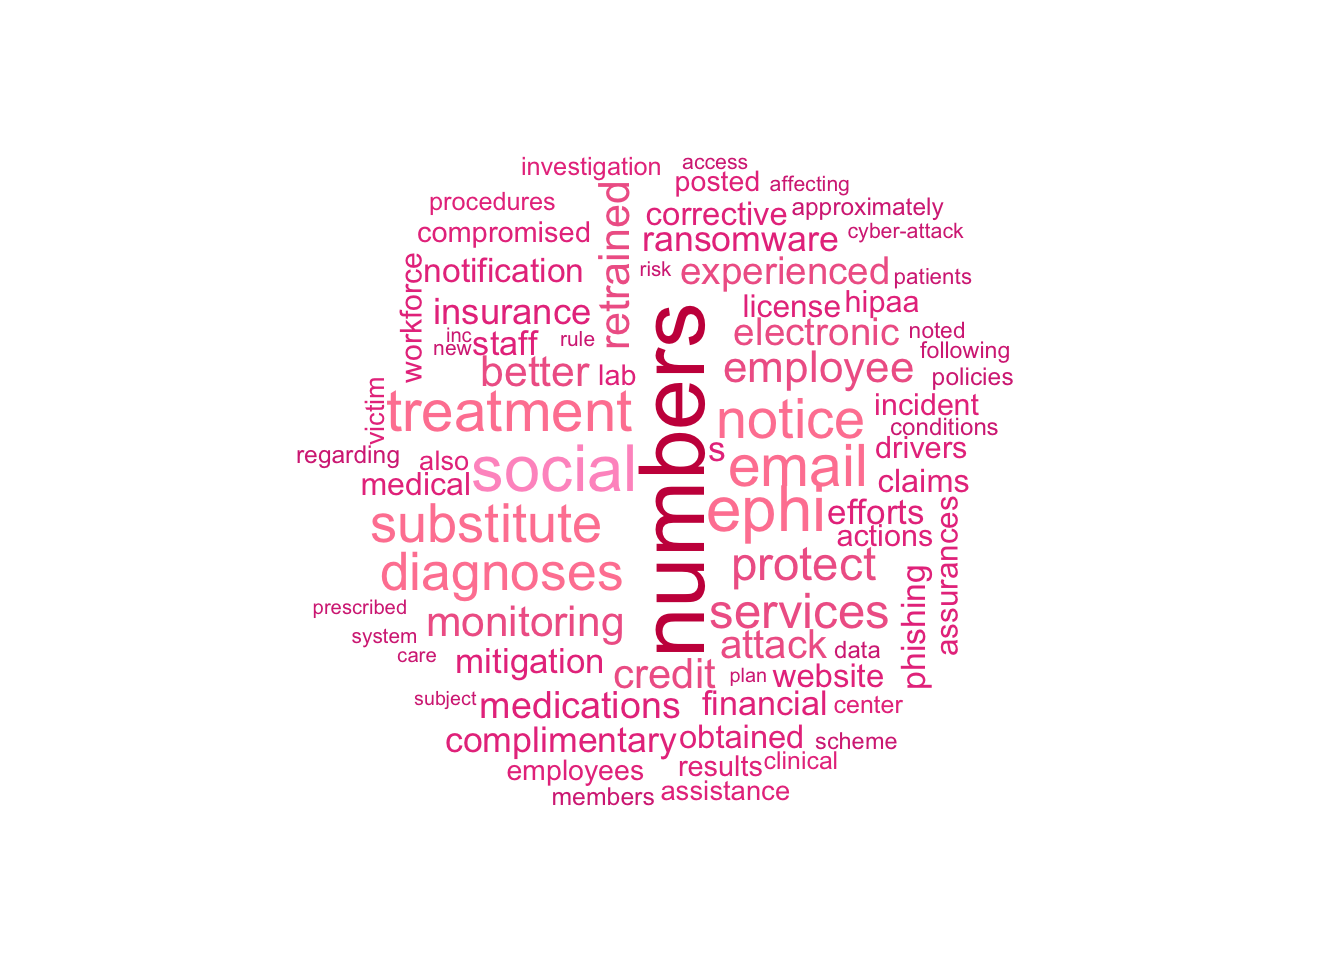
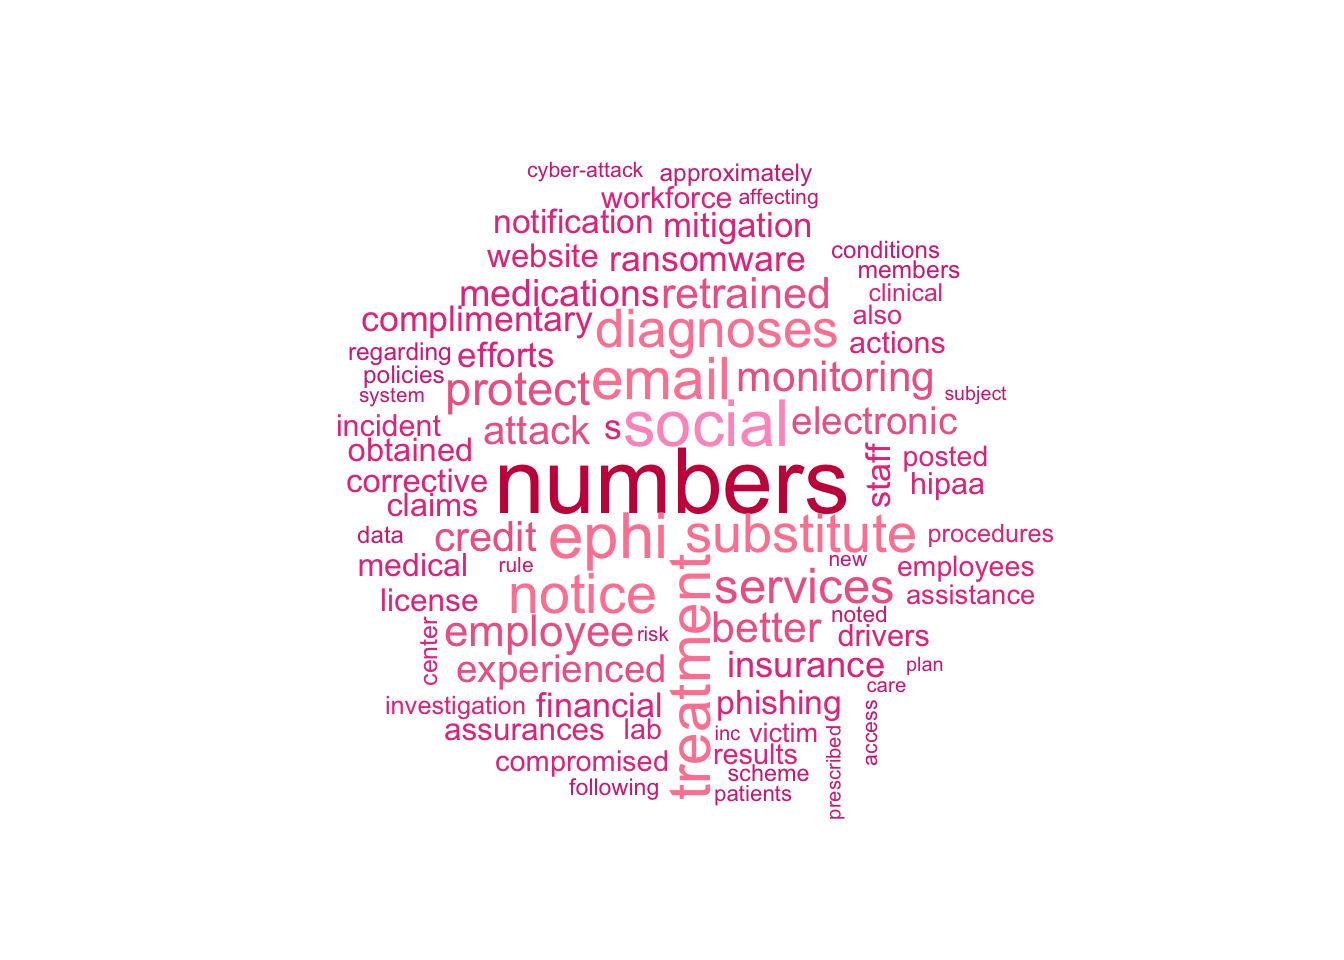
Add files via upload

Changed region(s): [[0.2188, 0.1562, 0.7812, 0.8438]]

diff --git a/site_libs/quarto-html/quarto-syntax-highlighting-dark-4d9afe2b8d18ee9fa5d0d57b5ed4214d.css b/site_libs/quarto-html/quarto-syntax-highlighting-dark-4d9afe2b8d18ee9fa5d0d57b5ed4214d.css
@@ -1,0 +1,219 @@
+/* quarto syntax highlight colors */
+:root {
+  --quarto-hl-al-color: #f07178;
+  --quarto-hl-an-color: #d4d0ab;
+  --quarto-hl-at-color: #00e0e0;
+  --quarto-hl-bn-color: #d4d0ab;
+  --quarto-hl-bu-color: #abe338;
+  --quarto-hl-ch-color: #abe338;
+  --quarto-hl-co-color: #f8f8f2;
+  --quarto-hl-cv-color: #ffd700;
+  --quarto-hl-cn-color: #ffd700;
+  --quarto-hl-cf-color: #ffa07a;
+  --quarto-hl-dt-color: #ffa07a;
+  --quarto-hl-dv-color: #d4d0ab;
+  --quarto-hl-do-color: #f8f8f2;
+  --quarto-hl-er-color: #f07178;
+  --quarto-hl-ex-color: #00e0e0;
+  --quarto-hl-fl-color: #d4d0ab;
+  --quarto-hl-fu-color: #ffa07a;
+  --quarto-hl-im-color: #abe338;
+  --quarto-hl-in-color: #d4d0ab;
+  --quarto-hl-kw-color: #ffa07a;
+  --quarto-hl-op-color: #ffa07a;
+  --quarto-hl-ot-color: #00e0e0;
+  --quarto-hl-pp-color: #dcc6e0;
+  --quarto-hl-re-color: #00e0e0;
+  --quarto-hl-sc-color: #abe338;
+  --quarto-hl-ss-color: #abe338;
+  --quarto-hl-st-color: #abe338;
+  --quarto-hl-va-color: #00e0e0;
+  --quarto-hl-vs-color: #abe338;
+  --quarto-hl-wa-color: #dcc6e0;
+}
+
+/* other quarto variables */
+:root {
+  --quarto-font-monospace: SFMono-Regular, Menlo, Monaco, Consolas, "Liberation Mono", "Courier New", monospace;
+}
+
+/* syntax highlight based on Pandoc's rules */
+pre > code.sourceCode > span {
+  color: #f8f8f2;
+}
+
+code.sourceCode > span {
+  color: #f8f8f2;
+}
+
+div.sourceCode,
+div.sourceCode pre.sourceCode {
+  color: #f8f8f2;
+}
+
+/* Normal */
+code span {
+  color: #f8f8f2;
+}
+
+/* Alert */
+code span.al {
+  color: #f07178;
+}
+
+/* Annotation */
+code span.an {
+  color: #d4d0ab;
+}
+
+/* Attribute */
+code span.at {
+  color: #00e0e0;
+}
+
+/* BaseN */
+code span.bn {
+  color: #d4d0ab;
+}
+
+/* BuiltIn */
+code span.bu {
+  color: #abe338;
+}
+
+/* ControlFlow */
+code span.cf {
+  font-weight: bold;
+  color: #ffa07a;
+}
+
+/* Char */
+code span.ch {
+  color: #abe338;
+}
+
+/* Constant */
+code span.cn {
+  color: #ffd700;
+}
+
+/* Comment */
+code span.co {
+  font-style: italic;
+  color: #f8f8f2;
+}
+
+/* CommentVar */
+code span.cv {
+  color: #ffd700;
+}
+
+/* Documentation */
+code span.do {
+  color: #f8f8f2;
+}
+
+/* DataType */
+code span.dt {
+  color: #ffa07a;
+}
+
+/* DecVal */
+code span.dv {
+  color: #d4d0ab;
+}
+
+/* Error */
+code span.er {
+  color: #f07178;
+  text-decoration: underline;
+}
+
+/* Extension */
+code span.ex {
+  font-weight: bold;
+  color: #00e0e0;
+}
+
+/* Float */
+code span.fl {
+  color: #d4d0ab;
+}
+
+/* Function */
+code span.fu {
+  color: #ffa07a;
+}
+
+/* Import */
+code span.im {
+  color: #abe338;
+}
+
+/* Information */
+code span.in {
+  color: #d4d0ab;
+}
+
+/* Keyword */
+code span.kw {
+  font-weight: bold;
+  color: #ffa07a;
+}
+
+/* Operator */
+code span.op {
+  color: #ffa07a;
+}
+
+/* Other */
+code span.ot {
+  color: #00e0e0;
+}
+
+/* Preprocessor */
+code span.pp {
+  color: #dcc6e0;
+}
+
+/* RegionMarker */
+code span.re {
+  background-color: #f8f8f2;
+  color: #00e0e0;
+}
+
+/* SpecialChar */
+code span.sc {
+  color: #abe338;
+}
+
+/* SpecialString */
+code span.ss {
+  color: #abe338;
+}
+
+/* String */
+code span.st {
+  color: #abe338;
+}
+
+/* Variable */
+code span.va {
+  color: #00e0e0;
+}
+
+/* VerbatimString */
+code span.vs {
+  color: #abe338;
+}
+
+/* Warning */
+code span.wa {
+  color: #dcc6e0;
+}
+
+.prevent-inlining {
+  content: "</";
+}
+
+/*# sourceMappingURL=86edf53ecdff796acf02dbceed379426.css.map */

diff --git a/lab1.html b/lab1.html
@@ -331,7 +331,7 @@ pre > code.sourceCode > span > a:first-child::before { text-decoration: underlin
 <span id="cb27-4"><a href="#cb27-4" aria-hidden="true" tabindex="-1"></a></span>
 <span id="cb27-5"><a href="#cb27-5" aria-hidden="true" tabindex="-1"></a><span class="fu">cor</span>(x,y) <span class="co"># Correlation of x and y</span></span></code></pre></div><button title="Copy to Clipboard" class="code-copy-button"><i class="bi"></i></button></div>
 <div class="cell-output cell-output-stdout">
-<pre><code>[1] 0.9928271</code></pre>
+<pre><code>[1] 0.9949117</code></pre>
 </div>
 <div class="code-copy-outer-scaffold"><div class="sourceCode cell-code" id="cb29"><pre class="sourceCode r code-with-copy"><code class="sourceCode r"><span id="cb29-1"><a href="#cb29-1" aria-hidden="true" tabindex="-1"></a><span class="fu">set.seed</span>(<span class="dv">1303</span>) <span class="co"># Set the seed for Random Number Generator (RNG) to generate values that are reproducible.</span></span>
 <span id="cb29-2"><a href="#cb29-2" aria-hidden="true" tabindex="-1"></a><span class="fu">rnorm</span>(<span class="dv">50</span>)</span></code></pre></div><button title="Copy to Clipboard" class="code-copy-button"><i class="bi"></i></button></div>

diff --git a/lab2.html b/lab2.html
@@ -499,7 +499,7 @@ pre > code.sourceCode > span > a:first-child::before { text-decoration: underlin
 <div class="cell-output cell-output-stdout">
 <pre><code>
 The downloaded binary packages are in
-    /var/folders/j2/fnf5s_0x3rv7xfjztkrrrgp80000gn/T//Rtmpisfzil/downloaded_packages</code></pre>
+    /var/folders/j2/fnf5s_0x3rv7xfjztkrrrgp80000gn/T//RtmpjTUmZV/downloaded_packages</code></pre>
 </div>
 <div class="code-copy-outer-scaffold"><div class="sourceCode cell-code" id="cb49"><pre class="sourceCode r code-with-copy"><code class="sourceCode r"><span id="cb49-1"><a href="#cb49-1" aria-hidden="true" tabindex="-1"></a><span class="fu">lapply</span>(ptbu, require, <span class="at">character.only =</span> <span class="cn">TRUE</span>)</span></code></pre></div><button title="Copy to Clipboard" class="code-copy-button"><i class="bi"></i></button></div>
 <div class="cell-output cell-output-stderr">

diff --git a/research.html b/research.html
@@ -1222,7 +1222,7 @@ This makes topic prevalence easier to interpret than simply averaging topic prob
 <span id="cb36-29"><a href="#cb36-29" aria-hidden="true" tabindex="-1"></a>  )</span></code></pre></div><button title="Copy to Clipboard" class="code-copy-button"><i class="bi"></i></button></div>
 <div class="cell-output-display">
 <div class="plotly html-widget html-fill-item" id="htmlwidget-1b4ff99564eb6e8884a5" style="width:100%;height:464px;"></div>
-<script type="application/json" data-for="htmlwidget-1b4ff99564eb6e8884a5">{"x":{"visdat":{"22ecd4af062":["function () ","plotlyVisDat"]},"cur_data":"22ecd4af062","attrs":{"22ecd4af062":{"x":{},"y":{},"mode":"markers+text","text":{},"textposition":"top center","hovertemplate":{},"marker":{"size":[90,73.274853801169598,77.456140350877178,64.59064327485379,35],"color":["#d63384","#e83e8c","#f06595","#ff85a1","#ff99c8"],"opacity":0.80000000000000004,"line":{"color":"#8a0f4d","width":1.5}},"alpha_stroke":1,"sizes":[10,100],"spans":[1,20],"type":"scatter"}},"layout":{"margin":{"b":40,"l":60,"t":25,"r":10},"title":{"text":"Interactive Intertopic Distance Map"},"xaxis":{"domain":[0,1],"automargin":true,"title":"Dimension 1"},"yaxis":{"domain":[0,1],"automargin":true,"title":"Dimension 2"},"hovermode":"closest","showlegend":false},"source":"A","config":{"modeBarButtonsToAdd":["hoverclosest","hovercompare"],"showSendToCloud":false},"data":[{"x":[0.31773000657140638,-0.27950720223184145,0.23823618791393766,0.090522343348555218,-0.36698133560205809],"y":[0.10791216818678713,-0.12277919258417323,0.16973014447007134,-0.36255957576446612,0.20769645569178111],"mode":"markers+text","text":["Types of Exposed PHI","Obtained and Assurances","Cyberattacks and Ransomware","Email, Mailing, and Delivery Errors","S and Investigation"],"textposition":["top center","top center","top center","top center","top center"],"hovertemplate":["<b>Types of Exposed PHI<\/b><br>Dominant-topic share: 26.8%<br>Top terms: numbers, services, credit, monitoring, diagnoses, social, complimentary, better<br>Meaning: This topic emphasizes the kinds of protected health information discussed in the breach descriptions.<extra><\/extra>","<b>Obtained and Assurances<\/b><br>Dominant-topic share: 21.6%<br>Top terms: obtained, assurances, employee, actions, notification, corrective, procedures, policies<br>Meaning: This topic is summarized using its most defining words because it does not clearly match one of the broader preset themes.<extra><\/extra>","<b>Cyberattacks and Ransomware<\/b><br>Dominant-topic share: 22.9%<br>Top terms: substitute, notice, numbers, ransomware, attack, experienced, website, posted<br>Meaning: This topic groups records centered on hacking, ransomware, and other network-based intrusions.<extra><\/extra>","<b>Email, Mailing, and Delivery Errors<\/b><br>Dominant-topic share: 18.9%<br>Top terms: email, ephi, phishing, electronic, retrained, employee, numbers, employees<br>Meaning: This topic captures incidents involving phishing, misdirected emails, mailed records, or delivery mistakes.<extra><\/extra>","<b>S and Investigation<\/b><br>Dominant-topic share: 9.7%<br>Top terms: s, investigation, access, risk, hipaa, notification, ephi, analysis<br>Meaning: This topic is summarized using its most defining words because it does not clearly match one of the broader preset themes.<extra><\/extra>"],"marker":{"color":["#d63384","#e83e8c","#f06595","#ff85a1","#ff99c8"],"size":[90,73.274853801169598,77.456140350877178,64.59064327485379,35],"opacity":0.80000000000000004,"line":{"color":"#8a0f4d","width":1.5}},"type":"scatter","error_y":{"color":"rgba(31,119,180,1)"},"error_x":{"color":"rgba(31,119,180,1)"},"line":{"color":"rgba(31,119,180,1)"},"xaxis":"x","yaxis":"y","frame":null}],"highlight":{"on":"plotly_click","persistent":false,"dynamic":false,"selectize":false,"opacityDim":0.20000000000000001,"selected":{"opacity":1},"debounce":0},"shinyEvents":["plotly_hover","plotly_click","plotly_selected","plotly_relayout","plotly_brushed","plotly_brushing","plotly_clickannotation","plotly_doubleclick","plotly_deselect","plotly_afterplot","plotly_sunburstclick"],"base_url":"https://plot.ly"},"evals":[],"jsHooks":[]}</script>
+<script type="application/json" data-for="htmlwidget-1b4ff99564eb6e8884a5">{"x":{"visdat":{"281125cecfe9":["function () ","plotlyVisDat"]},"cur_data":"281125cecfe9","attrs":{"281125cecfe9":{"x":{},"y":{},"mode":"markers+text","text":{},"textposition":"top center","hovertemplate":{},"marker":{"size":[90,73.274853801169598,77.456140350877178,64.59064327485379,35],"color":["#d63384","#e83e8c","#f06595","#ff85a1","#ff99c8"],"opacity":0.80000000000000004,"line":{"color":"#8a0f4d","width":1.5}},"alpha_stroke":1,"sizes":[10,100],"spans":[1,20],"type":"scatter"}},"layout":{"margin":{"b":40,"l":60,"t":25,"r":10},"title":{"text":"Interactive Intertopic Distance Map"},"xaxis":{"domain":[0,1],"automargin":true,"title":"Dimension 1"},"yaxis":{"domain":[0,1],"automargin":true,"title":"Dimension 2"},"hovermode":"closest","showlegend":false},"source":"A","config":{"modeBarButtonsToAdd":["hoverclosest","hovercompare"],"showSendToCloud":false},"data":[{"x":[0.31773000657140638,-0.27950720223184145,0.23823618791393766,0.090522343348555218,-0.36698133560205809],"y":[0.10791216818678713,-0.12277919258417323,0.16973014447007134,-0.36255957576446612,0.20769645569178111],"mode":"markers+text","text":["Types of Exposed PHI","Obtained and Assurances","Cyberattacks and Ransomware","Email, Mailing, and Delivery Errors","S and Investigation"],"textposition":["top center","top center","top center","top center","top center"],"hovertemplate":["<b>Types of Exposed PHI<\/b><br>Dominant-topic share: 26.8%<br>Top terms: numbers, services, credit, monitoring, diagnoses, social, complimentary, better<br>Meaning: This topic emphasizes the kinds of protected health information discussed in the breach descriptions.<extra><\/extra>","<b>Obtained and Assurances<\/b><br>Dominant-topic share: 21.6%<br>Top terms: obtained, assurances, employee, actions, notification, corrective, procedures, policies<br>Meaning: This topic is summarized using its most defining words because it does not clearly match one of the broader preset themes.<extra><\/extra>","<b>Cyberattacks and Ransomware<\/b><br>Dominant-topic share: 22.9%<br>Top terms: substitute, notice, numbers, ransomware, attack, experienced, website, posted<br>Meaning: This topic groups records centered on hacking, ransomware, and other network-based intrusions.<extra><\/extra>","<b>Email, Mailing, and Delivery Errors<\/b><br>Dominant-topic share: 18.9%<br>Top terms: email, ephi, phishing, electronic, retrained, employee, numbers, employees<br>Meaning: This topic captures incidents involving phishing, misdirected emails, mailed records, or delivery mistakes.<extra><\/extra>","<b>S and Investigation<\/b><br>Dominant-topic share: 9.7%<br>Top terms: s, investigation, access, risk, hipaa, notification, ephi, analysis<br>Meaning: This topic is summarized using its most defining words because it does not clearly match one of the broader preset themes.<extra><\/extra>"],"marker":{"color":["#d63384","#e83e8c","#f06595","#ff85a1","#ff99c8"],"size":[90,73.274853801169598,77.456140350877178,64.59064327485379,35],"opacity":0.80000000000000004,"line":{"color":"#8a0f4d","width":1.5}},"type":"scatter","error_y":{"color":"rgba(31,119,180,1)"},"error_x":{"color":"rgba(31,119,180,1)"},"line":{"color":"rgba(31,119,180,1)"},"xaxis":"x","yaxis":"y","frame":null}],"highlight":{"on":"plotly_click","persistent":false,"dynamic":false,"selectize":false,"opacityDim":0.20000000000000001,"selected":{"opacity":1},"debounce":0},"shinyEvents":["plotly_hover","plotly_click","plotly_selected","plotly_relayout","plotly_brushed","plotly_brushing","plotly_clickannotation","plotly_doubleclick","plotly_deselect","plotly_afterplot","plotly_sunburstclick"],"base_url":"https://plot.ly"},"evals":[],"jsHooks":[]}</script>
 </div>
 </div>
 </section>

diff --git a/site_libs/quarto-html/zenscroll-min.js b/site_libs/quarto-html/zenscroll-min.js
@@ -1,0 +1,1 @@
+!function(t,e){"function"==typeof define&&define.amd?define([],e()):"object"==typeof module&&module.exports?module.exports=e():function n(){document&&document.body?t.zenscroll=e():setTimeout(n,9)}()}(this,function(){"use strict";var t=function(t){return t&&"getComputedStyle"in window&&"smooth"===window.getComputedStyle(t)["scroll-behavior"]};if("undefined"==typeof window||!("document"in window))return{};var e=function(e,n,o){n=n||999,o||0===o||(o=9);var i,r=function(t){i=t},u=function(){clearTimeout(i),r(0)},c=function(t){return Math.max(0,e.getTopOf(t)-o)},a=function(o,i,c){if(u(),0===i||i&&i<0||t(e.body))e.toY(o),c&&c();else{var a=e.getY(),f=Math.max(0,o)-a,s=(new Date).getTime();i=i||Math.min(Math.abs(f),n),function t(){r(setTimeout(function(){var n=Math.min(1,((new Date).getTime()-s)/i),o=Math.max(0,Math.floor(a+f*(n<.5?2*n*n:n*(4-2*n)-1)));e.toY(o),n<1&&e.getHeight()+o<e.body.scrollHeight?t():(setTimeout(u,99),c&&c())},9))}()}},f=function(t,e,n){a(c(t),e,n)},s=function(t,n,i){var r=t.getBoundingClientRect().height,u=e.getTopOf(t)+r,s=e.getHeight(),l=e.getY(),d=l+s;c(t)<l||r+o>s?f(t,n,i):u+o>d?a(u-s+o,n,i):i&&i()},l=function(t,n,o,i){a(Math.max(0,e.getTopOf(t)-e.getHeight()/2+(o||t.getBoundingClientRect().height/2)),n,i)};return{setup:function(t,e){return(0===t||t)&&(n=t),(0===e||e)&&(o=e),{defaultDuration:n,edgeOffset:o}},to:f,toY:a,intoView:s,center:l,stop:u,moving:function(){return!!i},getY:e.getY,getTopOf:e.getTopOf}},n=document.documentElement,o=function(){return window.scrollY||n.scrollTop},i=e({body:document.scrollingElement||document.body,toY:function(t){window.scrollTo(0,t)},getY:o,getHeight:function(){return window.innerHeight||n.clientHeight},getTopOf:function(t){return t.getBoundingClientRect().top+o()-n.offsetTop}});if(i.createScroller=function(t,o,i){return e({body:t,toY:function(e){t.scrollTop=e},getY:function(){return t.scrollTop},getHeight:function(){return Math.min(t.clientHeight,window.innerHeight||n.clientHeight)},getTopOf:function(t){return t.offsetTop}},o,i)},"addEventListener"in window&&!window.noZensmooth&&!t(document.body)){var r="history"in window&&"pushState"in history,u=r&&"scrollRestoration"in history;u&&(history.scrollRestoration="auto"),window.addEventListener("load",function(){u&&(setTimeout(function(){history.scrollRestoration="manual"},9),window.addEventListener("popstate",function(t){t.state&&"zenscrollY"in t.state&&i.toY(t.state.zenscrollY)},!1)),window.location.hash&&setTimeout(function(){var t=i.setup().edgeOffset;if(t){var e=document.getElementById(window.location.href.split("#")[1]);if(e){var n=Math.max(0,i.getTopOf(e)-t),o=i.getY()-n;0<=o&&o<9&&window.scrollTo(0,n)}}},9)},!1);var c=new RegExp("(^|\\s)noZensmooth(\\s|$)");window.addEventListener("click",function(t){for(var e=t.target;e&&"A"!==e.tagName;)e=e.parentNode;if(!(!e||1!==t.which||t.shiftKey||t.metaKey||t.ctrlKey||t.altKey)){if(u){var n=history.state&&"object"==typeof history.state?history.state:{};n.zenscrollY=i.getY();try{history.replaceState(n,"")}catch(t){}}var o=e.getAttribute("href")||"";if(0===o.indexOf("#")&&!c.test(e.className)){var a=0,f=document.getElementById(o.substring(1));if("#"!==o){if(!f)return;a=i.getTopOf(f)}t.preventDefault();var s=function(){window.location=o},l=i.setup().edgeOffset;l&&(a=Math.max(0,a-l),r&&(s=function(){history.pushState({},"",o)})),i.toY(a,null,s)}}},!1)}return i});